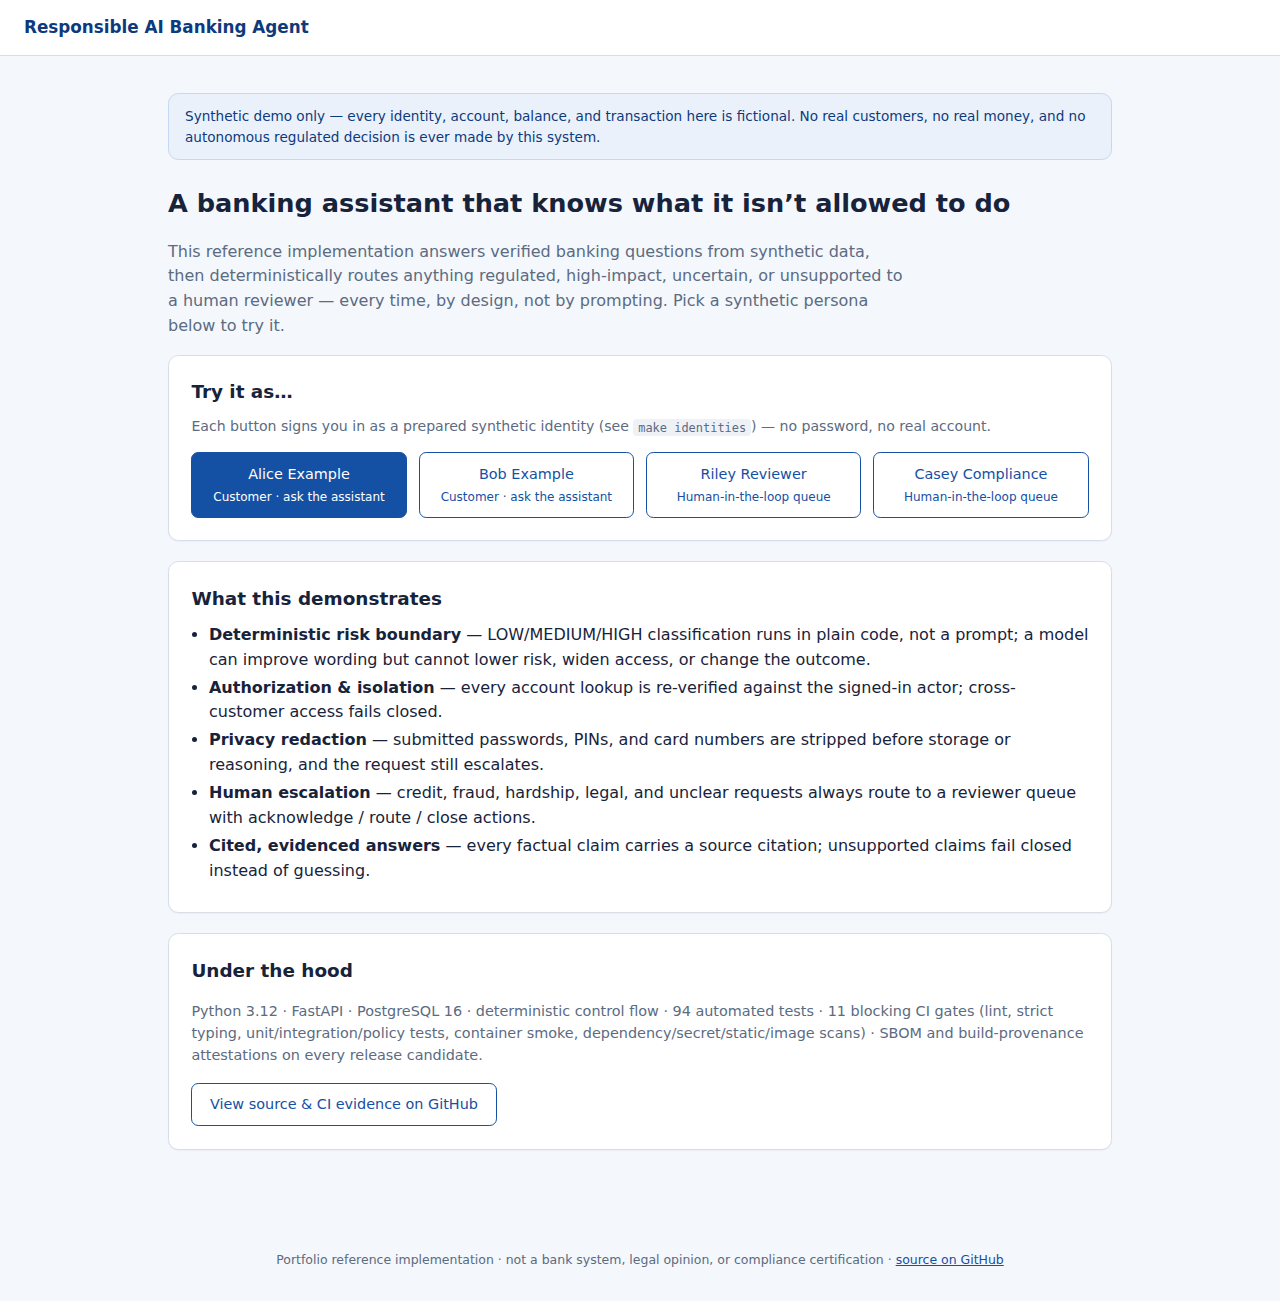
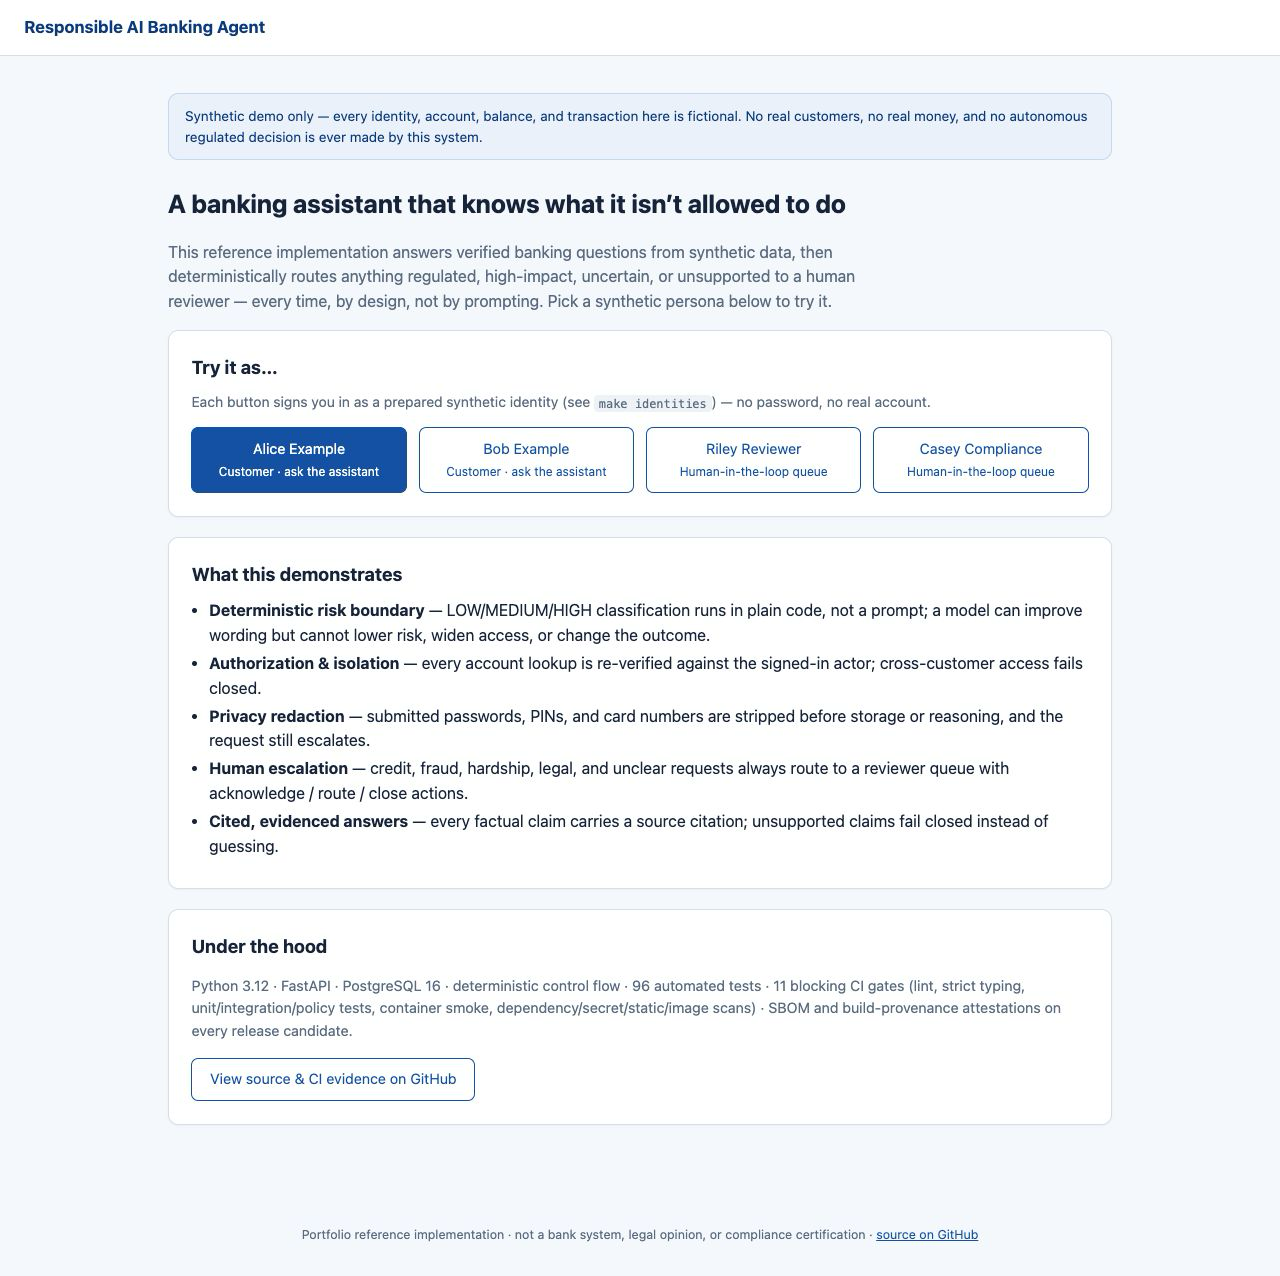
docs(portfolio): align release evidence and screenshots

diff --git a/docs/release-candidate-v1.0.0-plan.md b/docs/release-candidate-v1.0.0-plan.md
@@ -1,36 +1,36 @@
-# v1.0.0 Release Candidate &mdash; Readiness Plan (DRAFT, NOT APPLIED)
+# v1.0.0 Stable Release &mdash; Readiness Plan (DRAFT, NOT APPLIED)
 
 **Status: proposal only.** Nothing in this document has been executed. No
-tag has been created, no workflow file has been changed, and no GitHub
+tag has been created, the release workflow has not been changed, and no GitHub
 release or GHCR image has been published. It exists so the repository
 owner has one place to review exactly what publishing `v1.0.0` would
-involve, and to give the one approval required before any of it happens.
+involve and which approvals are required before anything publishes.
 
 ## What "release" means here
 
-Same definition as the rest of this repository: a **synthetic, portfolio
-reference candidate**, not a production deployment, not a compliance
+Same definition as the rest of this repository: a **synthetic portfolio
+reference release**, not a production deployment, not a compliance
 certification, and not evidence of real-bank approval. The existing
-`docs/delivery.md` release-evidence language (SBOM, attestations, digest
-pinning, no `latest` tag) applies unchanged.
+`docs/delivery.md` release controls (SBOM, attestations, digest pinning, no
+`latest` tag) remain required, but its RC2-specific wording must be updated in
+the future release-preparation commit described below.
 
-## Blocking technical issue found during review
+## Blocking release-preparation work
 
-`.github/workflows/release.yml` is currently hardcoded to the exact string
-`v0.1.0-rc.2` in two places:
+The current repository cannot publish a correct stable `v1.0.0` tag yet:
 
-1. `on.push.tags` &mdash; only a `v0.1.0-rc.2` tag push triggers the workflow
-   at all.
-2. The `Enforce the authorised release candidate tag` step: `test
-   "$GITHUB_REF_NAME" = "v0.1.0-rc.2"`, which fails the job closed for any
-   other tag even if the workflow were somehow invoked.
+1. `.github/workflows/release.yml` triggers and authorises only
+   `v0.1.0-rc.2`.
+2. `pyproject.toml` and the API identify the current development build as
+   `0.2.0.dev0`, not `1.0.0`.
+3. The workflow creates a GitHub prerelease. A stable `v1.0.0` must not use
+   `--prerelease`.
+4. The release notes emitted by the workflow are RC2-specific and do not yet
+   use the reviewed stable notes below.
 
-**A `v1.0.0` tag pushed today would not trigger a release, and if the
-trigger were changed but not this check, the job would fail closed at that
-step.** This is deliberate fail-closed design from the RC2 work, not a bug
-&mdash; it just needs to be re-pointed at the new candidate tag before
-`v1.0.0` can be published. The minimal, in-place edit (not applied) would
-be:
+**A `v1.0.0` tag pushed today would not publish a release.** This is deliberate
+fail-closed design from RC2. A separate release-preparation commit must make
+all of the following changes together before any tag exists (not applied):
 
 ```diff
  on:
@@ -51,28 +51,42 @@ be:
 -            type=raw,value=0.1.0-rc.2
 +            type=raw,value=1.0.0
              type=raw,value=sha-${{ github.sha }}
+
+ pyproject.toml:
+-  version = "0.2.0.dev0"
++  version = "1.0.0"
+
+ release command:
+-  gh release create ... --prerelease ...
++  gh release create ... --notes-file docs/release-notes-v1.0.0.md ...
 ```
 
-No other logic changes: still SHA-pinned Actions, still no `latest` tag,
-still SBOM + provenance + SBOM attestation on the exact digest, still a
-smoke test against the exact published digest before the GitHub release is
-created.
+The release preparation must also add a blocking tag/package/API version
+equality check and update `docs/delivery.md` from RC2-specific wording. All
+other controls remain unchanged: SHA-pinned Actions, no `latest` tag, SBOM,
+provenance and SBOM attestations on the exact digest, and a smoke test against
+that published digest before creating the GitHub release.
 
-## Readiness checklist against the exact candidate commit
+## Readiness checklist against the exact release commit
 
-Once the owner names the exact commit SHA to release (expected to be this
-PR's merge commit on `main`, or `fa5b650fbf5d59c78401b8e0b1e44e026d983cd2`
-if released pre-merge from this branch):
+The release SHA must be a merge commit on protected `main` that already
+contains the approved release workflow, `1.0.0` package version, stable notes,
+and all documentation updates. Do not tag this feature branch, its current
+head, or an earlier pre-merge SHA: GitHub executes the workflow stored in the
+tagged commit.
 
-- [x] All 11 blocking CI gates pass on that commit (repository hygiene,
+- [ ] All 11 blocking CI gates pass on the exact release-preparation commit
+      (repository hygiene,
       Ruff + strict typing, unit tests, PostgreSQL integration, policy
       evaluations, container smoke, dependency audit, secret scan, static
       security scan, filesystem vulnerability scan, image vulnerability
-      scan) &mdash; confirmed green on PR #12, both workflow attempts, 0
-      failures.
-- [ ] `release.yml` re-pointed at `v1.0.0` (diff above) &mdash; **not yet
-      applied, pending owner approval.**
-- [ ] Exact commit SHA for the tag confirmed by the owner.
+      scan). Feature-branch CI is supporting evidence only; this item remains
+      unchecked until those gates pass on the future release SHA.
+- [ ] Package and API version set to `1.0.0`; workflow re-pointed to
+      `v1.0.0`; prerelease mode removed; reviewed notes wired in; and
+      tag/version equality gate added &mdash; **not yet applied, pending owner
+      approval.**
+- [ ] Exact protected-`main` commit SHA for the tag confirmed by the owner.
 - [ ] Tag `v1.0.0` created and pushed &mdash; **not yet done, pending owner
       approval.**
 - [ ] Release workflow republishes CI gates, then builds and pushes the
@@ -84,7 +98,7 @@ if released pre-merge from this branch):
       before the release is created.
 - [ ] Published digest pulled and smoke-tested (`/healthz`) before the
       GitHub release is created &mdash; matches the existing RC2 smoke step.
-- [ ] GitHub prerelease/release created from the verified tag, with
+- [ ] Stable GitHub release created from the verified tag, with
       release notes drafted below.
 - [ ] Quick-start instructions re-verified against the published image
       (not just the local build) before announcing the release.
@@ -98,7 +112,7 @@ Synthetic, human-supervised banking assistant reference implementation.
 Deterministic risk classification, authorization, redaction, cited
 evidence, and mandatory human escalation run as code, not as prompts.
 
-**This is a portfolio reference candidate only.** It is not deployed by,
+**This is a portfolio reference release only.** It is not deployed by,
 or affiliated with, any real bank; not certified as legally or
 regulatorily compliant; not connected to real customer data; and not
 authorized to move money or make an autonomous credit, fraud, or hardship
@@ -110,13 +124,15 @@ still require.
 
 - One-command demo: `make demo` / `docker compose up --build` builds the
   app, starts PostgreSQL, runs migrations, seeds four synthetic demo
-  identities, and serves the app &mdash; no manual setup.
+  identities, and serves the app on loopback-only ports &mdash; no manual
+  setup. Demo database state is ephemeral and recreated with the stack.
 - A customer-facing landing page and assistant UI with four prepared
   scenarios (LOW, MEDIUM, HIGH, prompt-injection), plus a visually
   refreshed reviewer console.
-- End-to-end automated coverage of the full demo journeys (customer
-  assistant flow and reviewer acknowledge/route/close flow) in addition to
-  the existing unit, integration, and 48-case policy evaluation suites.
+- A blocking full-stack Compose HTTP smoke that starts the packaged app and
+  PostgreSQL, verifies the customer answer/escalation path and reviewer
+  route/close path, recreates the stack, and runs the journey again, in
+  addition to the unit, integration, and 48-case policy evaluation suites.
 - An architecture diagram, real screenshots, a 90&ndash;120s demo script,
   and a rewritten, CV-ready README.
 
@@ -124,8 +140,8 @@ still require.
 
 - Public image: `ghcr.io/ozzy2438/responsible-ai-banking-agent@<digest>`
   (immutable digest; also tagged `1.0.0` and `sha-<commit>`, no `latest`).
-- SPDX JSON SBOM and GitHub build-provenance + SBOM attestations attached
-  to this release; verify with:
+- SPDX JSON SBOM published as a release asset, with GitHub build-provenance
+  and SBOM attestations bound to the exact OCI image digest; verify with:
   ```sh
   gh attestation verify \
     oci://ghcr.io/ozzy2438/responsible-ai-banking-agent@<digest> \
@@ -134,14 +150,16 @@ still require.
 - 11/11 blocking CI gates passing on the released commit; see the linked
   workflow run.
 
-Synthetic public reference candidate only; not production approved.
+Synthetic public reference release only; not production approved.
 ```
 
-## The one approval needed
+## Owner approvals needed
 
 Everything above is ready to execute except two owner decisions:
 
-1. **Confirm the exact commit** to release (this PR's merge commit on
-   `main` once merged, or a specific SHA if released pre-merge).
-2. **Approve applying the `release.yml` diff above and pushing the
-   `v1.0.0` tag.** Nothing publishes until both of those happen.
+1. **Approve the release-preparation change** (workflow, `1.0.0` version,
+   stable notes, delivery docs, and tag/version gate) after this feature PR is
+   merged.
+2. **Confirm the resulting protected-`main` SHA and separately approve
+   pushing the `v1.0.0` tag.** Nothing publishes until both approvals and a
+   green exact-SHA CI run exist.

diff --git a/README.md b/README.md
@@ -22,8 +22,8 @@ enforces. Every request runs through a fixed, testable pipeline before a
 model ever sees it, and the model's only job is wording: it cannot lower
 risk, widen data access, choose a tool, or change whether a human gets
 involved. That boundary is the entire point of the project, and it's proven
-by 94 automated tests and 11 blocking CI gates on every commit, not just
-described in this README.
+by 96 automated tests and 11 blocking CI gates on every push and pull
+request, not just described in this README.
 
 ## Quick start &mdash; one command
 
@@ -36,7 +36,10 @@ docker compose up --build
 This builds the app image, starts PostgreSQL, runs migrations, seeds four
 demo identities, and serves the app at **http://localhost:8000/**. Nothing
 here is a manual step: no `.env` copying, no separate migration command, no
-account setup. Stop it with `make demo-down` (or `docker compose down`).
+account setup. Both published ports bind to loopback only. The demo database
+is intentionally ephemeral, so stopping the stack with `make demo-down` (or
+`docker compose down`) removes all synthetic sessions and review cases and
+the next start is deterministic.
 
 Pick a persona on the landing page &mdash; no password, just a click:
 
@@ -128,9 +131,13 @@ interpretation only), and
 ```sh
 make lint       # ruff format --check, ruff check
 make typecheck  # mypy --strict
-make test       # 94 tests: unit, PostgreSQL integration, policy evaluation
+make test       # local suites; PostgreSQL tests require the URLs documented below
 make verify     # all three
 ```
+
+CI runs all **96 tests**. A plain local `make test` runs unit and policy
+tests, and runs the PostgreSQL integration suite when `TEST_DATABASE_URL`
+and `MIGRATION_DATABASE_URL` are configured as shown in Local development.
 
 Every push and pull request runs **11 blocking CI gates**: repository
 hygiene, Ruff + strict typing, unit tests, PostgreSQL integration tests,
@@ -141,13 +148,15 @@ full commit SHAs; see [docs/delivery.md](docs/delivery.md) for the exact
 gate list and how release-candidate images are published with SBOM and
 build-provenance attestations.
 
-The 94 tests break down as: 11 unit test modules covering risk
+The 96 tests break down as: 11 unit test modules covering risk
 classification, redaction, identity (simulated + OIDC), bank-data adapters,
 rate limiting, observability, configuration, and the API surface (including
 the demo UI routes); PostgreSQL integration tests covering migrations,
-concurrent idempotency, immutable audit, cross-customer isolation, the
-one-command demo journeys, and 30 extended scenario cases against real
-seeded data (see [docs/synthetic-data.md](docs/synthetic-data.md)); and the
+concurrent idempotency, immutable audit, cross-customer isolation, HTTP demo
+journeys, and 30 extended scenario cases against real seeded data (see
+[docs/synthetic-data.md](docs/synthetic-data.md)); the blocking container
+smoke separately starts the packaged Compose stack twice and exercises the
+customer and reviewer flows through its published HTTP port; and the
 fixed 48-case policy evaluation corpus with 100% required pass rate on every
 high-risk and privacy case.
 
@@ -193,7 +202,7 @@ people can close.
   externally served, same-origin JS rather than weakening the security
   policy &mdash; and added a regression test asserting the CSP header never
   regains `unsafe-inline` for scripts.
-- Took an existing backend-only reference app to a one-command,
+- Took an existing backend-only reference app to a loopback-only, one-command,
   fully-scripted demo (`make demo` / `docker compose up --build`) with a
   polished customer and reviewer UI, without introducing a frontend
   framework or weakening any existing control.
@@ -234,7 +243,7 @@ make a live model call.
 - [System card](docs/system-card.md) &middot; [Architecture](docs/architecture.md) &middot; [Threat model](docs/threat-model.md)
 - [Delivery controls](docs/delivery.md) &mdash; CI jobs, RC publication, SBOM, attestation verification
 - [Production readiness roadmap](docs/production-readiness-roadmap.md) &middot; [Assurance handoff](docs/assurance-handoff.md)
-- [v1.0.0 release-candidate plan](docs/release-candidate-v1.0.0-plan.md) &mdash; draft only; not yet applied or tagged
+- [v1.0.0 stable-release readiness plan](docs/release-candidate-v1.0.0-plan.md) &mdash; draft only; not yet applied or tagged
 - [Synthetic data](docs/synthetic-data.md) &mdash; the 305-customer generated dataset used for local development, demos, and stress testing
 - [Demo script](docs/demo-script.md)
 

diff --git a/docs/demo-script.md b/docs/demo-script.md
@@ -14,7 +14,7 @@ cues below. Times are approximate.
 | 0:55&ndash;1:10 | Click the **HIGH** scenario (financial hardship) | "Anything regulated &mdash; credit, fraud, hardship, legal &mdash; always escalates. Notice it says 'no autonomous decision has been made,' and it creates a real escalation record for a human reviewer." |
 | 1:10&ndash;1:25 | Click the **prompt injection** scenario | "Someone tries to override the rules directly. Same result: it fails closed and escalates instead of complying &mdash; deterministic code decides this, not the model being asked nicely." |
 | 1:25&ndash;1:45 | Switch persona to **Riley Reviewer**, open the reviewer queue | "A human reviewer sees the redacted request, the risk reason, and the route. They can acknowledge, route to a specialist team, or close &mdash; the system never resolves a HIGH-risk case on its own." |
-| 1:45&ndash;2:00 | Scroll to footer / GitHub link | "Full source, 87 automated tests, and 11 green CI gates &mdash; lint, strict typing, container smoke, dependency, secret, static, and image scans &mdash; are all on GitHub." |
+| 1:45&ndash;2:00 | Scroll to footer / GitHub link | "Full source, 96 automated tests, and 11 green CI gates &mdash; lint, strict typing, a full-stack Compose smoke, dependency, secret, static, and image scans &mdash; are all on GitHub." |
 
 ## Shot list (if recording separately from narration)
 

diff --git a/docs/synthetic-data.md b/docs/synthetic-data.md
@@ -33,7 +33,8 @@ on wall-clock time or process entropy. Regenerate with:
 Once `0003_synthetic_seed_data.sql` has been applied anywhere, treat it as
 immutable like any other migration — `migrate()` hash-checks applied
 migrations and raises if a previously applied file changes. A future change
-to the seed data is a new migration (`0004_...`), not an edit to `0003`.
+to the seed data is a new numbered migration (for example, `0006_...`), not
+an edit to `0003`.
 
 ## Named edge-case fixtures
 
